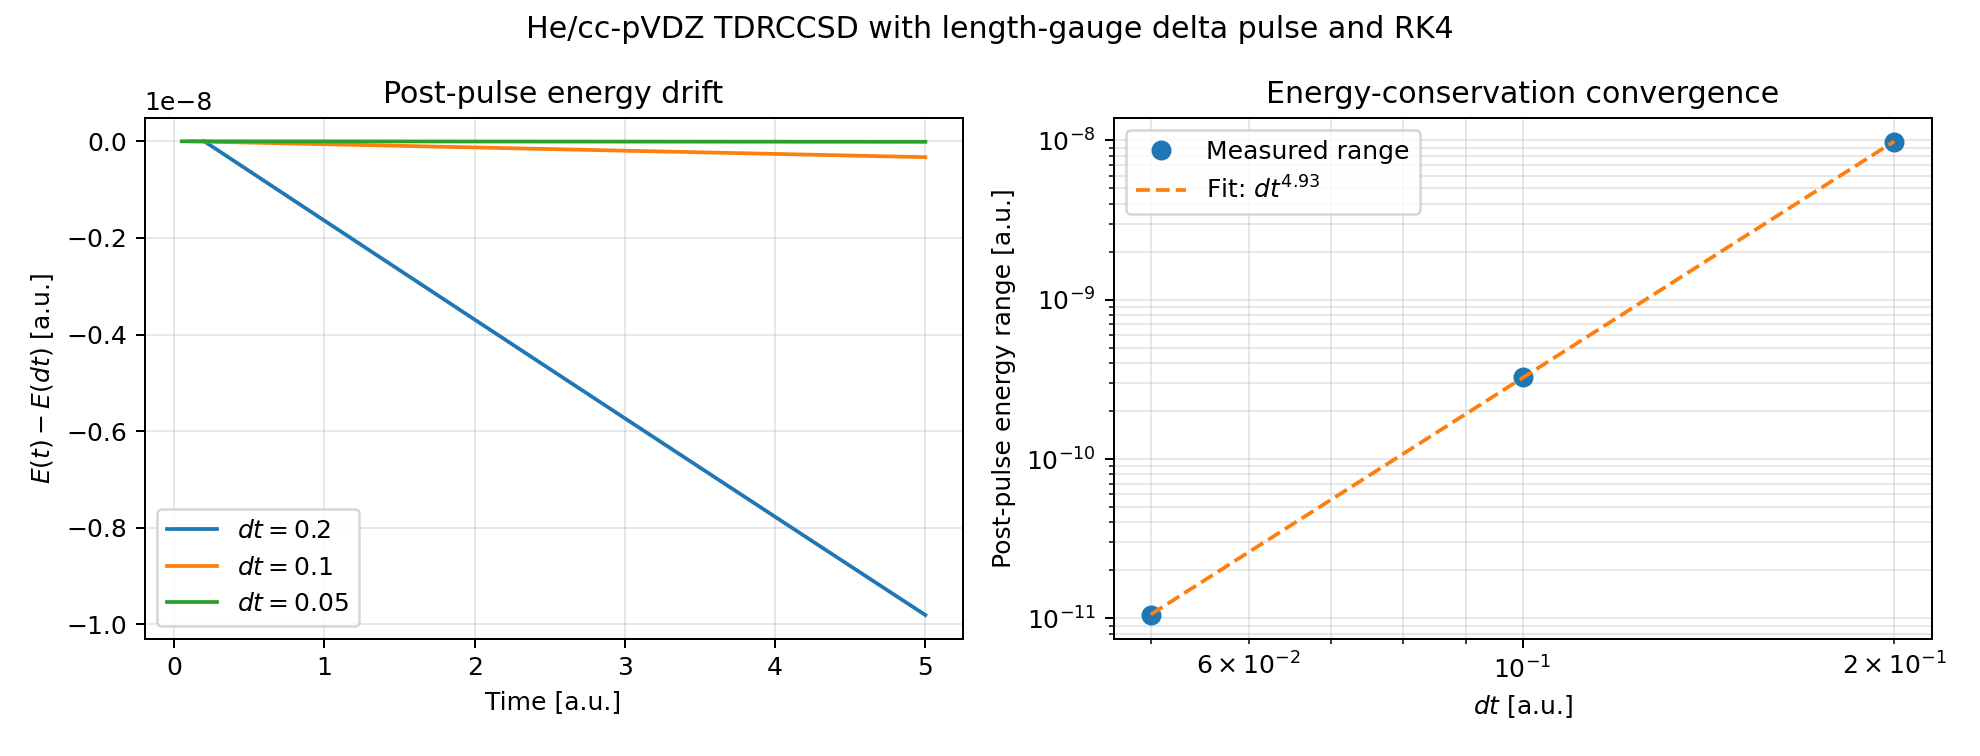
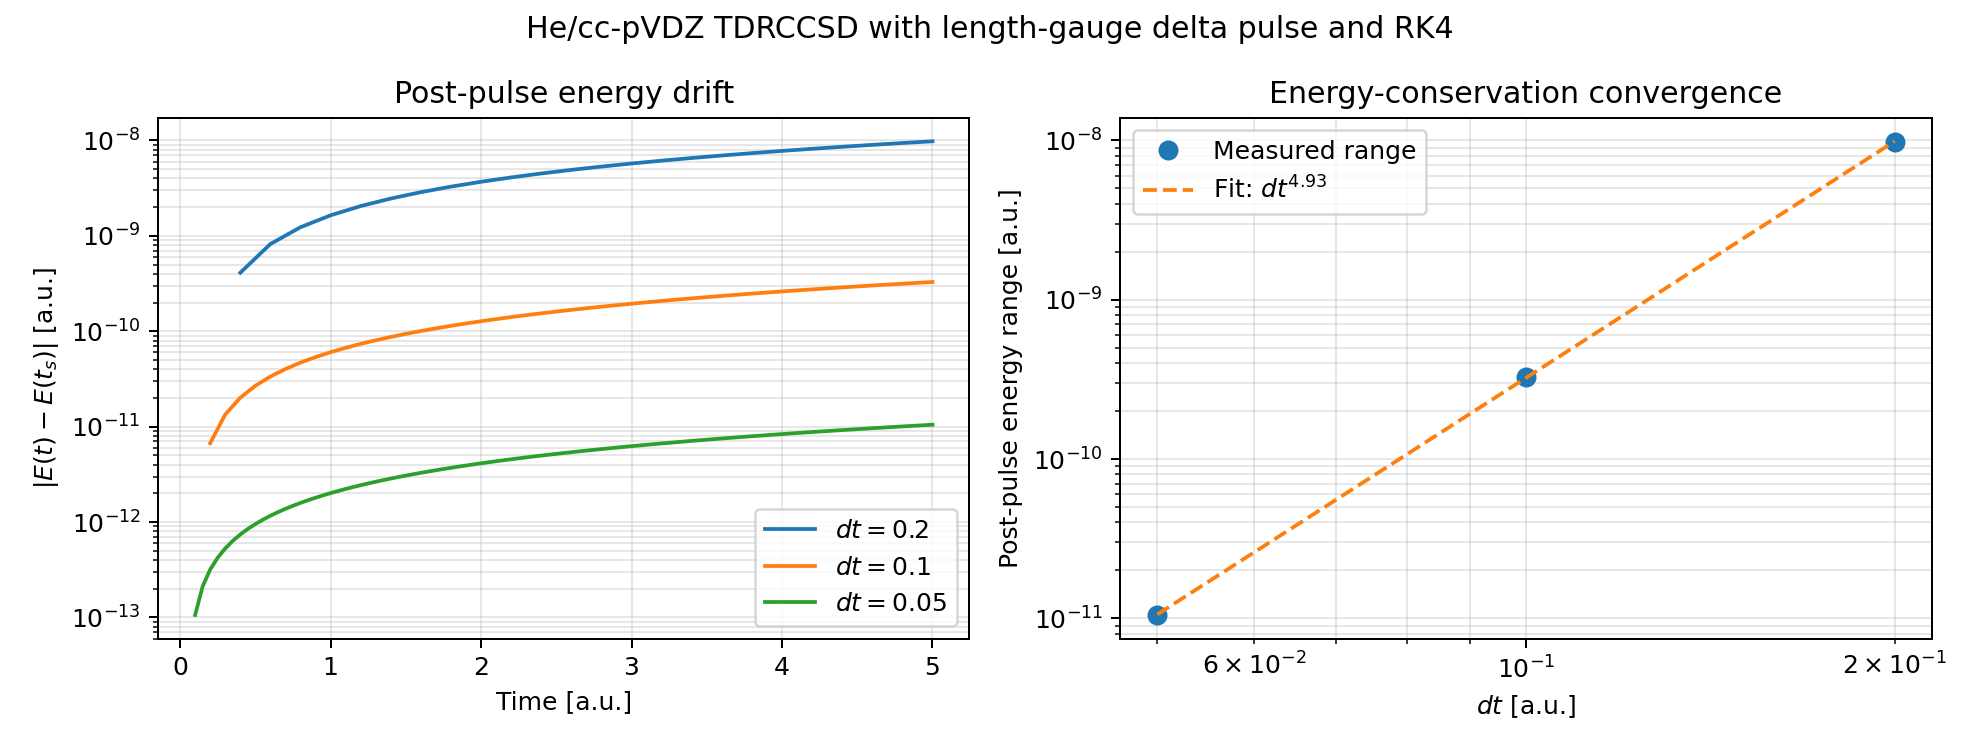
Plot absolute post-pulse energy drift

diff --git a/dev/compare_tdrccsd_energy_conservation.py b/dev/compare_tdrccsd_energy_conservation.py
@@ -64,15 +64,18 @@ def main():
     for item in datasets:
         post_time = item["time"][1:]
         post_energy = item["energy"][1:]
-        axes[0].plot(
-            post_time,
-            post_energy - post_energy[0],
+        absolute_drift = np.abs(post_energy - post_energy[0])
+        # Skip t_s itself because the difference is exactly zero and cannot be
+        # displayed on a logarithmic axis.
+        axes[0].semilogy(
+            post_time[1:],
+            absolute_drift[1:],
             label=rf"$dt={item['dt']:g}$",
         )
     axes[0].set_xlabel("Time [a.u.]")
-    axes[0].set_ylabel(r"$E(t)-E(dt)$ [a.u.]")
+    axes[0].set_ylabel(r"$|E(t)-E(t_s)|$ [a.u.]")
     axes[0].set_title("Post-pulse energy drift")
-    axes[0].grid(alpha=0.3)
+    axes[0].grid(alpha=0.3, which="both")
     axes[0].legend()
 
     order_grid = np.linspace(time_steps.min(), time_steps.max(), 200)
